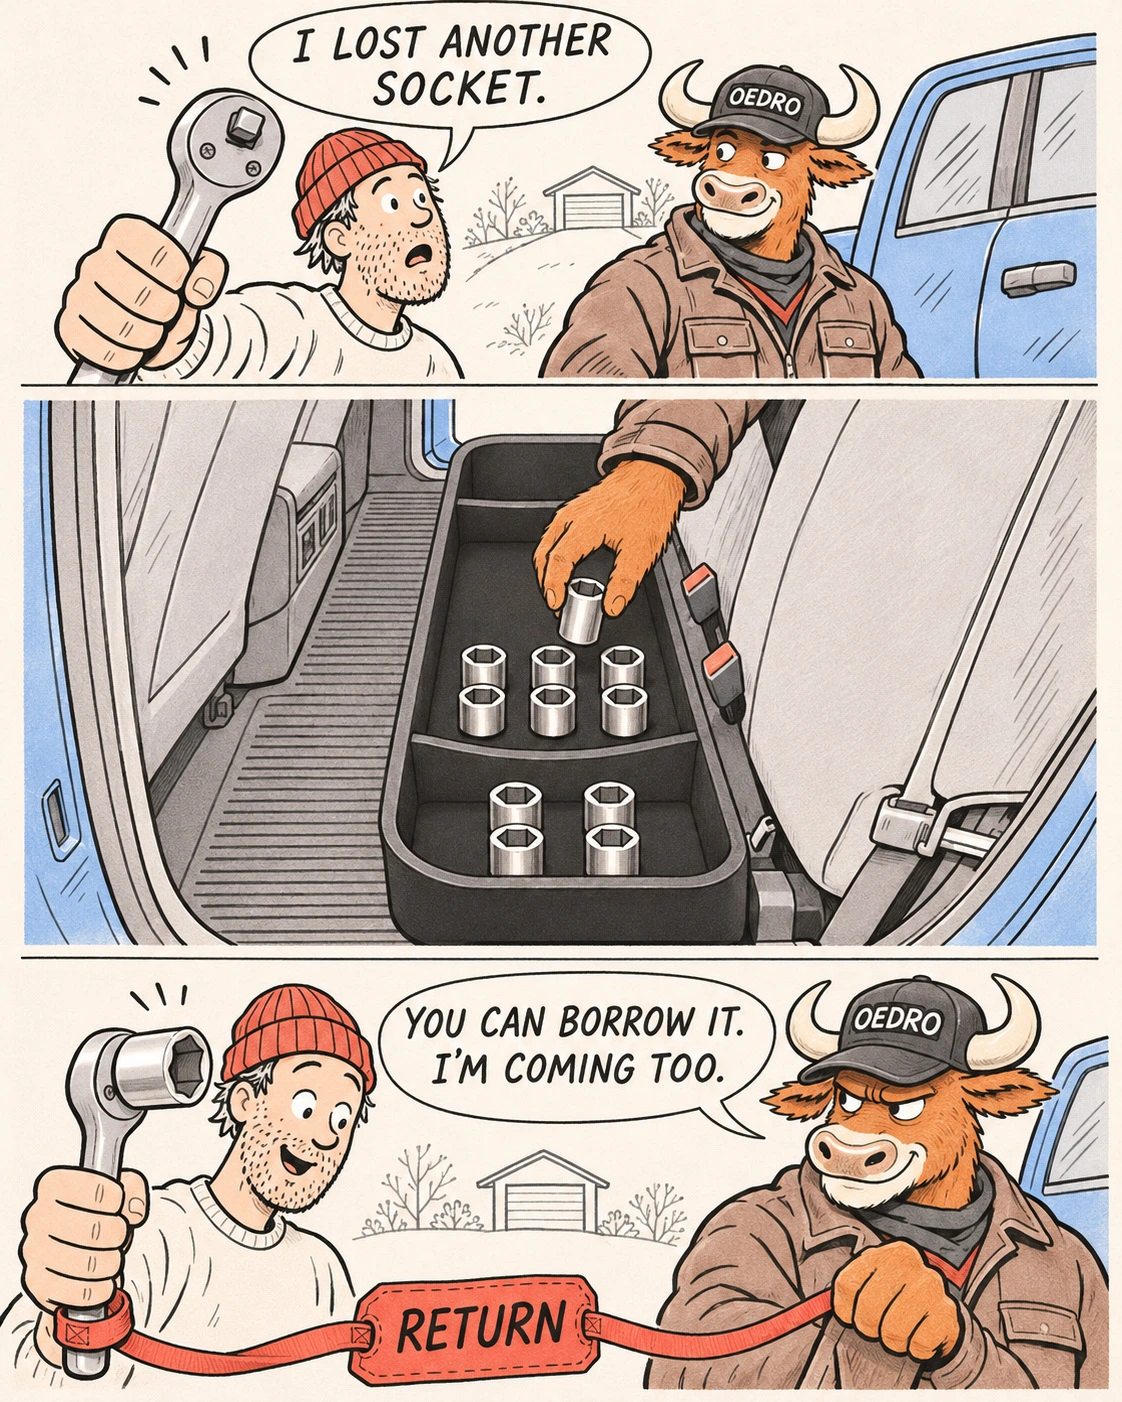
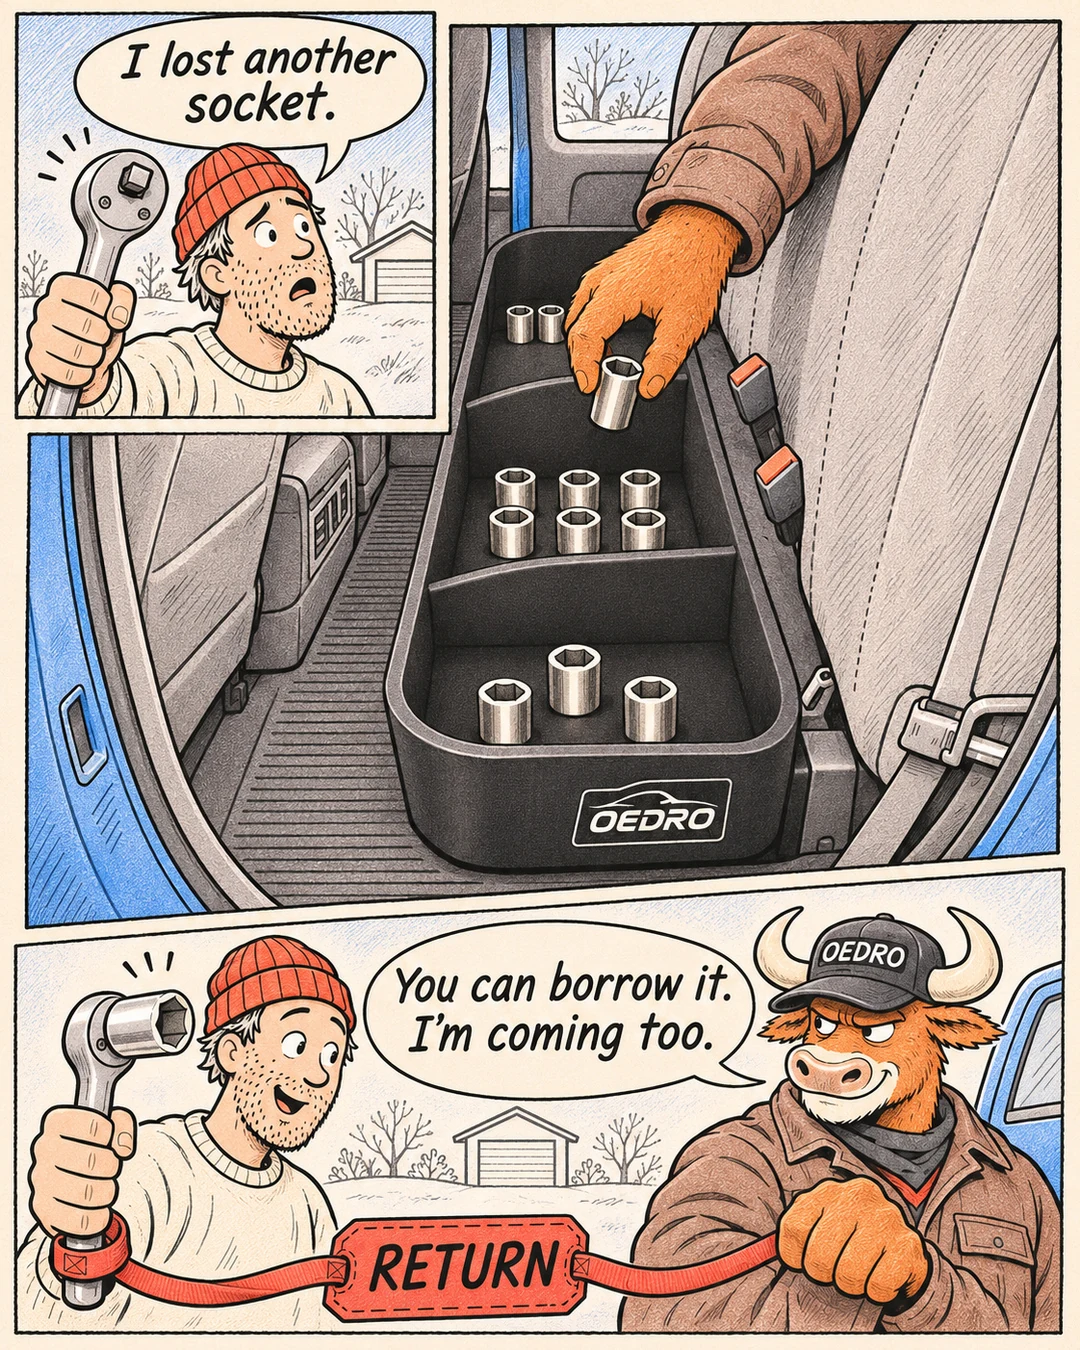
Redraw OEDRO comics for November 24 and 25

diff --git a/feed-oedro.html b/feed-oedro.html
@@ -412,7 +412,7 @@ Grandma was hoping for a different kind of save.</p></div>
 </article>
 <article class="post" data-post="11-24-04" data-purpose="comic seasonal running-boards" data-schedule-status="In review – do not post yet">
 <div class="post-media">
-<button class="feed-large" type="button" aria-label="查看大图" data-title="Real Truck Guys" data-pages="assets/feed/oedro-11-24-04/1.webp"><img src="assets/feed/oedro-11-24-04/1.webp" alt="Real Truck Guys" width="1122" height="1402" loading="lazy"></button>
+<button class="feed-large" type="button" aria-label="查看大图" data-title="Real Truck Guys" data-pages="assets/feed/oedro-11-24-04/1.webp"><img src="assets/feed/oedro-11-24-04/1.webp" alt="Real Truck Guys" width="1080" height="1350" loading="lazy"></button>
 </div>
 <div class="post-body">
 <h3 lang="en">Real Truck Guys</h3>
@@ -431,7 +431,7 @@ One OEDRO running board later: “Tell them I drove.”</p></div>
 <h2 id="title-2026-11-25"><span class="day-date">11月25日</span><span class="day-week">周三</span></h2>
 <article class="post" data-post="11-25-03" data-purpose="comic under-seat-storage" data-schedule-status="In review – do not post yet">
 <div class="post-media">
-<button class="feed-large" type="button" aria-label="查看大图" data-title="Got a Spare?" data-pages="assets/feed/oedro-11-25-03/1.webp"><img src="assets/feed/oedro-11-25-03/1.webp" alt="Got a Spare?" width="1122" height="1402" loading="lazy"></button>
+<button class="feed-large" type="button" aria-label="查看大图" data-title="Got a Spare?" data-pages="assets/feed/oedro-11-25-03/1.webp"><img src="assets/feed/oedro-11-25-03/1.webp" alt="Got a Spare?" width="1080" height="1350" loading="lazy"></button>
 </div>
 <div class="post-body">
 <h3 lang="en">Got a Spare?</h3>
